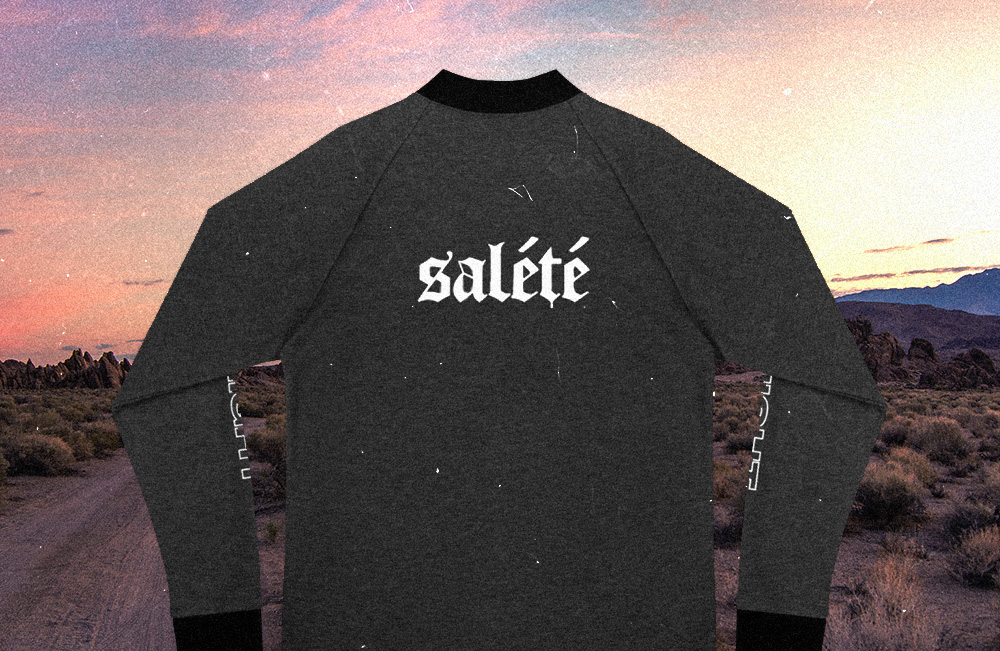
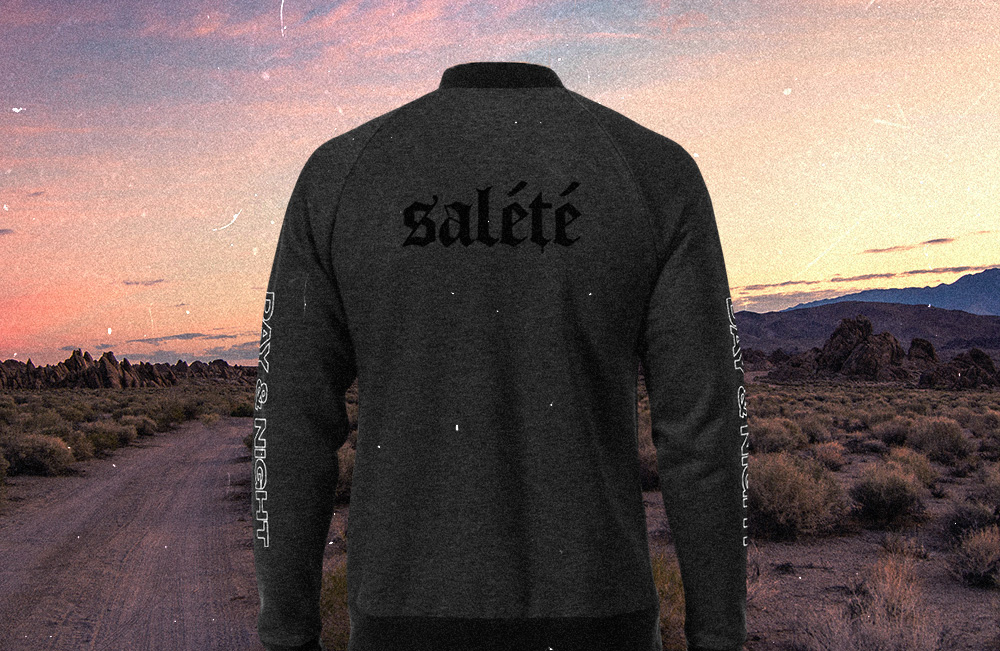
Added Bomber apparel

Changed region(s): [[0.093, 0.0, 1.0, 1.0], [0.0, 0.0, 0.217, 0.1843], [0.496, 0.5837, 0.527, 0.8602]]

diff --git a/bin/apparel/index.html b/bin/apparel/index.html
@@ -603,6 +603,285 @@
 					    </script>
 					</div>
 				</div>
+				<hr />
+				<div class="apparel-item clearfix">
+					<div class="photos right">
+						<img src="/img/apparel/Salete-Day-Night-Bomber-Back.jpg"/>
+					</div>
+					<div class="product-info">
+						<h1>Day & Night Bomber</h1>
+						<p class="price">$70 CAD</p>
+						<p class="price">This sick Sale&#769;te&#769; bomber features the paint drip black on black logo on the back and the outlined track title on the sleeves.</p>
+						<div id='product-component-24a7e48b182'></div>
+					    <script type="text/javascript">
+						    /*<![CDATA[*/
+
+						    (function () {
+						      var scriptURL = 'https://sdks.shopifycdn.com/buy-button/latest/buy-button-storefront.min.js';
+						      if (window.ShopifyBuy) {
+						        if (window.ShopifyBuy.UI) {
+						          ShopifyBuyInit();
+						        } else {
+						          loadScript();
+						        }
+						      } else {
+						        loadScript();
+						      }
+
+						      function loadScript() {
+						        var script = document.createElement('script');
+						        script.async = true;
+						        script.src = scriptURL;
+						        (document.getElementsByTagName('head')[0] || document.getElementsByTagName('body')[0]).appendChild(script);
+						        script.onload = ShopifyBuyInit;
+						      }
+
+						      function ShopifyBuyInit() {
+						        var client = ShopifyBuy.buildClient({
+						          domain: 'connellmccarthy.myshopify.com',
+						          storefrontAccessToken: '334bbaf84bf80863b79d1448b2ac6c07',
+						        });
+
+						        ShopifyBuy.UI.onReady(client).then(function (ui) {
+						          ui.createComponent('product', {
+						            id: [2137704857662],
+						            node: document.getElementById('product-component-24a7e48b182'),
+						            moneyFormat: '%24%7B%7Bamount%7D%7D',
+						            options: {
+									  "product": {
+									    "buttonDestination": "checkout",
+									    "variantId": "all",
+									    "width": "240px",
+									    "contents": {
+									      "img": false,
+									      "imgWithCarousel": false,
+									      "title": false,
+									      "variantTitle": false,
+									      "price": false,
+									      "description": false,
+									      "buttonWithQuantity": false,
+									      "quantity": false
+									    },
+									    "text": {
+									      "button": "Purchase Bomber"
+									    },
+									    "styles": {
+									      "product": {
+									        "text-align": "left",
+									        "@media (min-width: 601px)": {
+									          "max-width": "100%",
+									          "margin-left": "0",
+									          "margin-bottom": "50px"
+									        }
+									      },
+									      "button": {
+									        "background-color": "transparent",
+									        "color": "#fff",
+									        "font-family": "'Heebo', Helvetica, sans-serif;",
+									        "font-size": "13px",
+									        "padding-left": "0px",
+									        "padding-right": "0px",
+									        "padding-bottom": "5px",
+									        "letter-spacing": "1px",
+									        "text-transform": "uppercase",
+									        "border-bottom": "2px solid #fff",
+									        ":hover": {
+									          "background": "transparent",
+									          "border-color": "rgba(255,0,0,.9)"
+									        },
+									        "border-radius": "0px",
+									        ":focus": {
+									          "background-color": "#e6e6e6"
+									        },
+									        "font-weight": "bold"
+									      },
+									      "variantTitle": {
+									        "font-family": "'Heebo', Helvetica, sans-serif;",
+									        "font-weight": "bold"
+									      },
+									      "description": {
+									        "font-family": "Open Sans, sans-serif",
+									        "font-weight": "bold"
+									      },
+									      "price": {
+									        "font-family": "Open Sans, sans-serif",
+									        "font-weight": "bold"
+									      },
+									      "quantityInput": {
+									        "font-size": "13px",
+									        "padding-top": "14.5px",
+									        "padding-bottom": "14.5px"
+									      },
+									      "compareAt": {
+									        "font-size": "12px",
+									        "font-family": "Open Sans, sans-serif",
+									        "font-weight": "bold"
+									      }
+									    },
+									    "googleFonts": [
+									      "Open Sans",
+									      "Open Sans",
+									      "Open Sans",
+									      "Open Sans",
+									      "Open Sans"
+									    ]
+									  },
+									  "cart": {
+									    "contents": {
+									      "button": true
+									    },
+									    "styles": {
+									      "button": {
+									        "background-color": "#ffffff",
+									        "color": "#000000",
+									        "font-family": "Open Sans, sans-serif",
+									        "font-size": "13px",
+									        "padding-top": "14.5px",
+									        "padding-bottom": "14.5px",
+									        ":hover": {
+									          "background-color": "#e6e6e6",
+									          "color": "#000000"
+									        },
+									        "border-radius": "0px",
+									        ":focus": {
+									          "background-color": "#e6e6e6"
+									        },
+									        "font-weight": "bold"
+									      },
+									      "footer": {
+									        "background-color": "#ffffff"
+									      }
+									    },
+									    "googleFonts": [
+									      "Open Sans"
+									    ]
+									  },
+									  "modalProduct": {
+									    "contents": {
+									      "img": false,
+									      "imgWithCarousel": true,
+									      "variantTitle": false,
+									      "buttonWithQuantity": true,
+									      "button": false,
+									      "quantity": false
+									    },
+									    "styles": {
+									      "product": {
+									        "@media (min-width: 601px)": {
+									          "max-width": "100%",
+									          "margin-left": "0px",
+									          "margin-bottom": "0px"
+									        }
+									      },
+									      "button": {
+									        "background-color": "#ffffff",
+									        "color": "#000000",
+									        "font-family": "Open Sans, sans-serif",
+									        "font-size": "13px",
+									        "padding-top": "14.5px",
+									        "padding-bottom": "14.5px",
+									        ":hover": {
+									          "background-color": "#e6e6e6",
+									          "color": "#000000"
+									        },
+									        "border-radius": "0px",
+									        ":focus": {
+									          "background-color": "#e6e6e6"
+									        },
+									        "font-weight": "bold"
+									      },
+									      "variantTitle": {
+									        "font-family": "Open Sans, sans-serif",
+									        "font-weight": "bold"
+									      },
+									      "description": {
+									        "font-family": "Open Sans, sans-serif",
+									        "font-weight": "bold"
+									      },
+									      "price": {
+									        "font-family": "Open Sans, sans-serif",
+									        "font-weight": "bold"
+									      },
+									      "quantityInput": {
+									        "font-size": "13px",
+									        "padding-top": "14.5px",
+									        "padding-bottom": "14.5px"
+									      },
+									      "compareAt": {
+									        "font-family": "Open Sans, sans-serif",
+									        "font-weight": "bold"
+									      }
+									    },
+									    "googleFonts": [
+									      "Open Sans",
+									      "Open Sans",
+									      "Open Sans",
+									      "Open Sans",
+									      "Open Sans"
+									    ]
+									  },
+									  "toggle": {
+									    "styles": {
+									      "toggle": {
+									        "font-family": "Open Sans, sans-serif",
+									        "background-color": "#ffffff",
+									        ":hover": {
+									          "background-color": "#e6e6e6"
+									        },
+									        ":focus": {
+									          "background-color": "#e6e6e6"
+									        },
+									        "font-weight": "bold"
+									      },
+									      "count": {
+									        "font-size": "13px",
+									        "color": "#000000",
+									        ":hover": {
+									          "color": "#000000"
+									        }
+									      },
+									      "iconPath": {
+									        "fill": "#000000"
+									      }
+									    },
+									    "googleFonts": [
+									      "Open Sans"
+									    ]
+									  },
+									  "option": {
+									    "styles": {
+									      "label": {
+									        "font-family": "Open Sans, sans-serif",
+									        "font-weight": "bold"
+									      },
+									      "select": {
+									        "font-family": "Open Sans, sans-serif",
+									        "font-weight": "bold"
+									      }
+									    },
+									    "googleFonts": [
+									      "Open Sans",
+									      "Open Sans"
+									    ]
+									  },
+									  "productSet": {
+									    "styles": {
+									      "products": {
+									        "@media (min-width: 601px)": {
+									          "margin-left": "-20px"
+									        }
+									      }
+									    }
+									  }
+									}
+						          });
+						        });
+						      }
+						    })();
+						    /*]]>*/
+					    </script>
+					</div>
+				</div>
 			</div>
 			<div class="footer">
 				<div class="logo wow fadeInUp" data-wow-delay=".8s"><img src="/img/logo-w.png"></div>

diff --git a/bin/press/index.html b/bin/press/index.html
@@ -41,7 +41,8 @@
 		</div>
 		<div class="content">
 			<div class="top-nav">
-				<p style="float:left;"><a href="/" class="nav">All Music</a></p>
+				<p style="float:left;"><a href="/" class="nav">Music</a></p>
+				<p style="float:left;"><a href="/apparel/" class="nav">Apparel</a></p>
 			</div>
 			<div class="section press skewable">
 				<img class="wow fadeInUp" data-wow-delay=".2s" src="/img/press/Salete-Studio.jpg">

diff --git a/bin/day-night/index.html b/bin/day-night/index.html
@@ -41,7 +41,8 @@
 		</div>
 		<div class="content">
 			<div class="top-nav">
-				<p style="float:left;"><a href="/" class="nav">All Music</a></p>
+				<p style="float:left;"><a href="/" class="nav">Music</a></p>
+				<p style="float:left;"><a href="/apparel/" class="nav">Apparel</a></p>
 			</div>
 			<div class="section song-info skewable">
 					<img src="/img/artworks/day&night.jpg">
